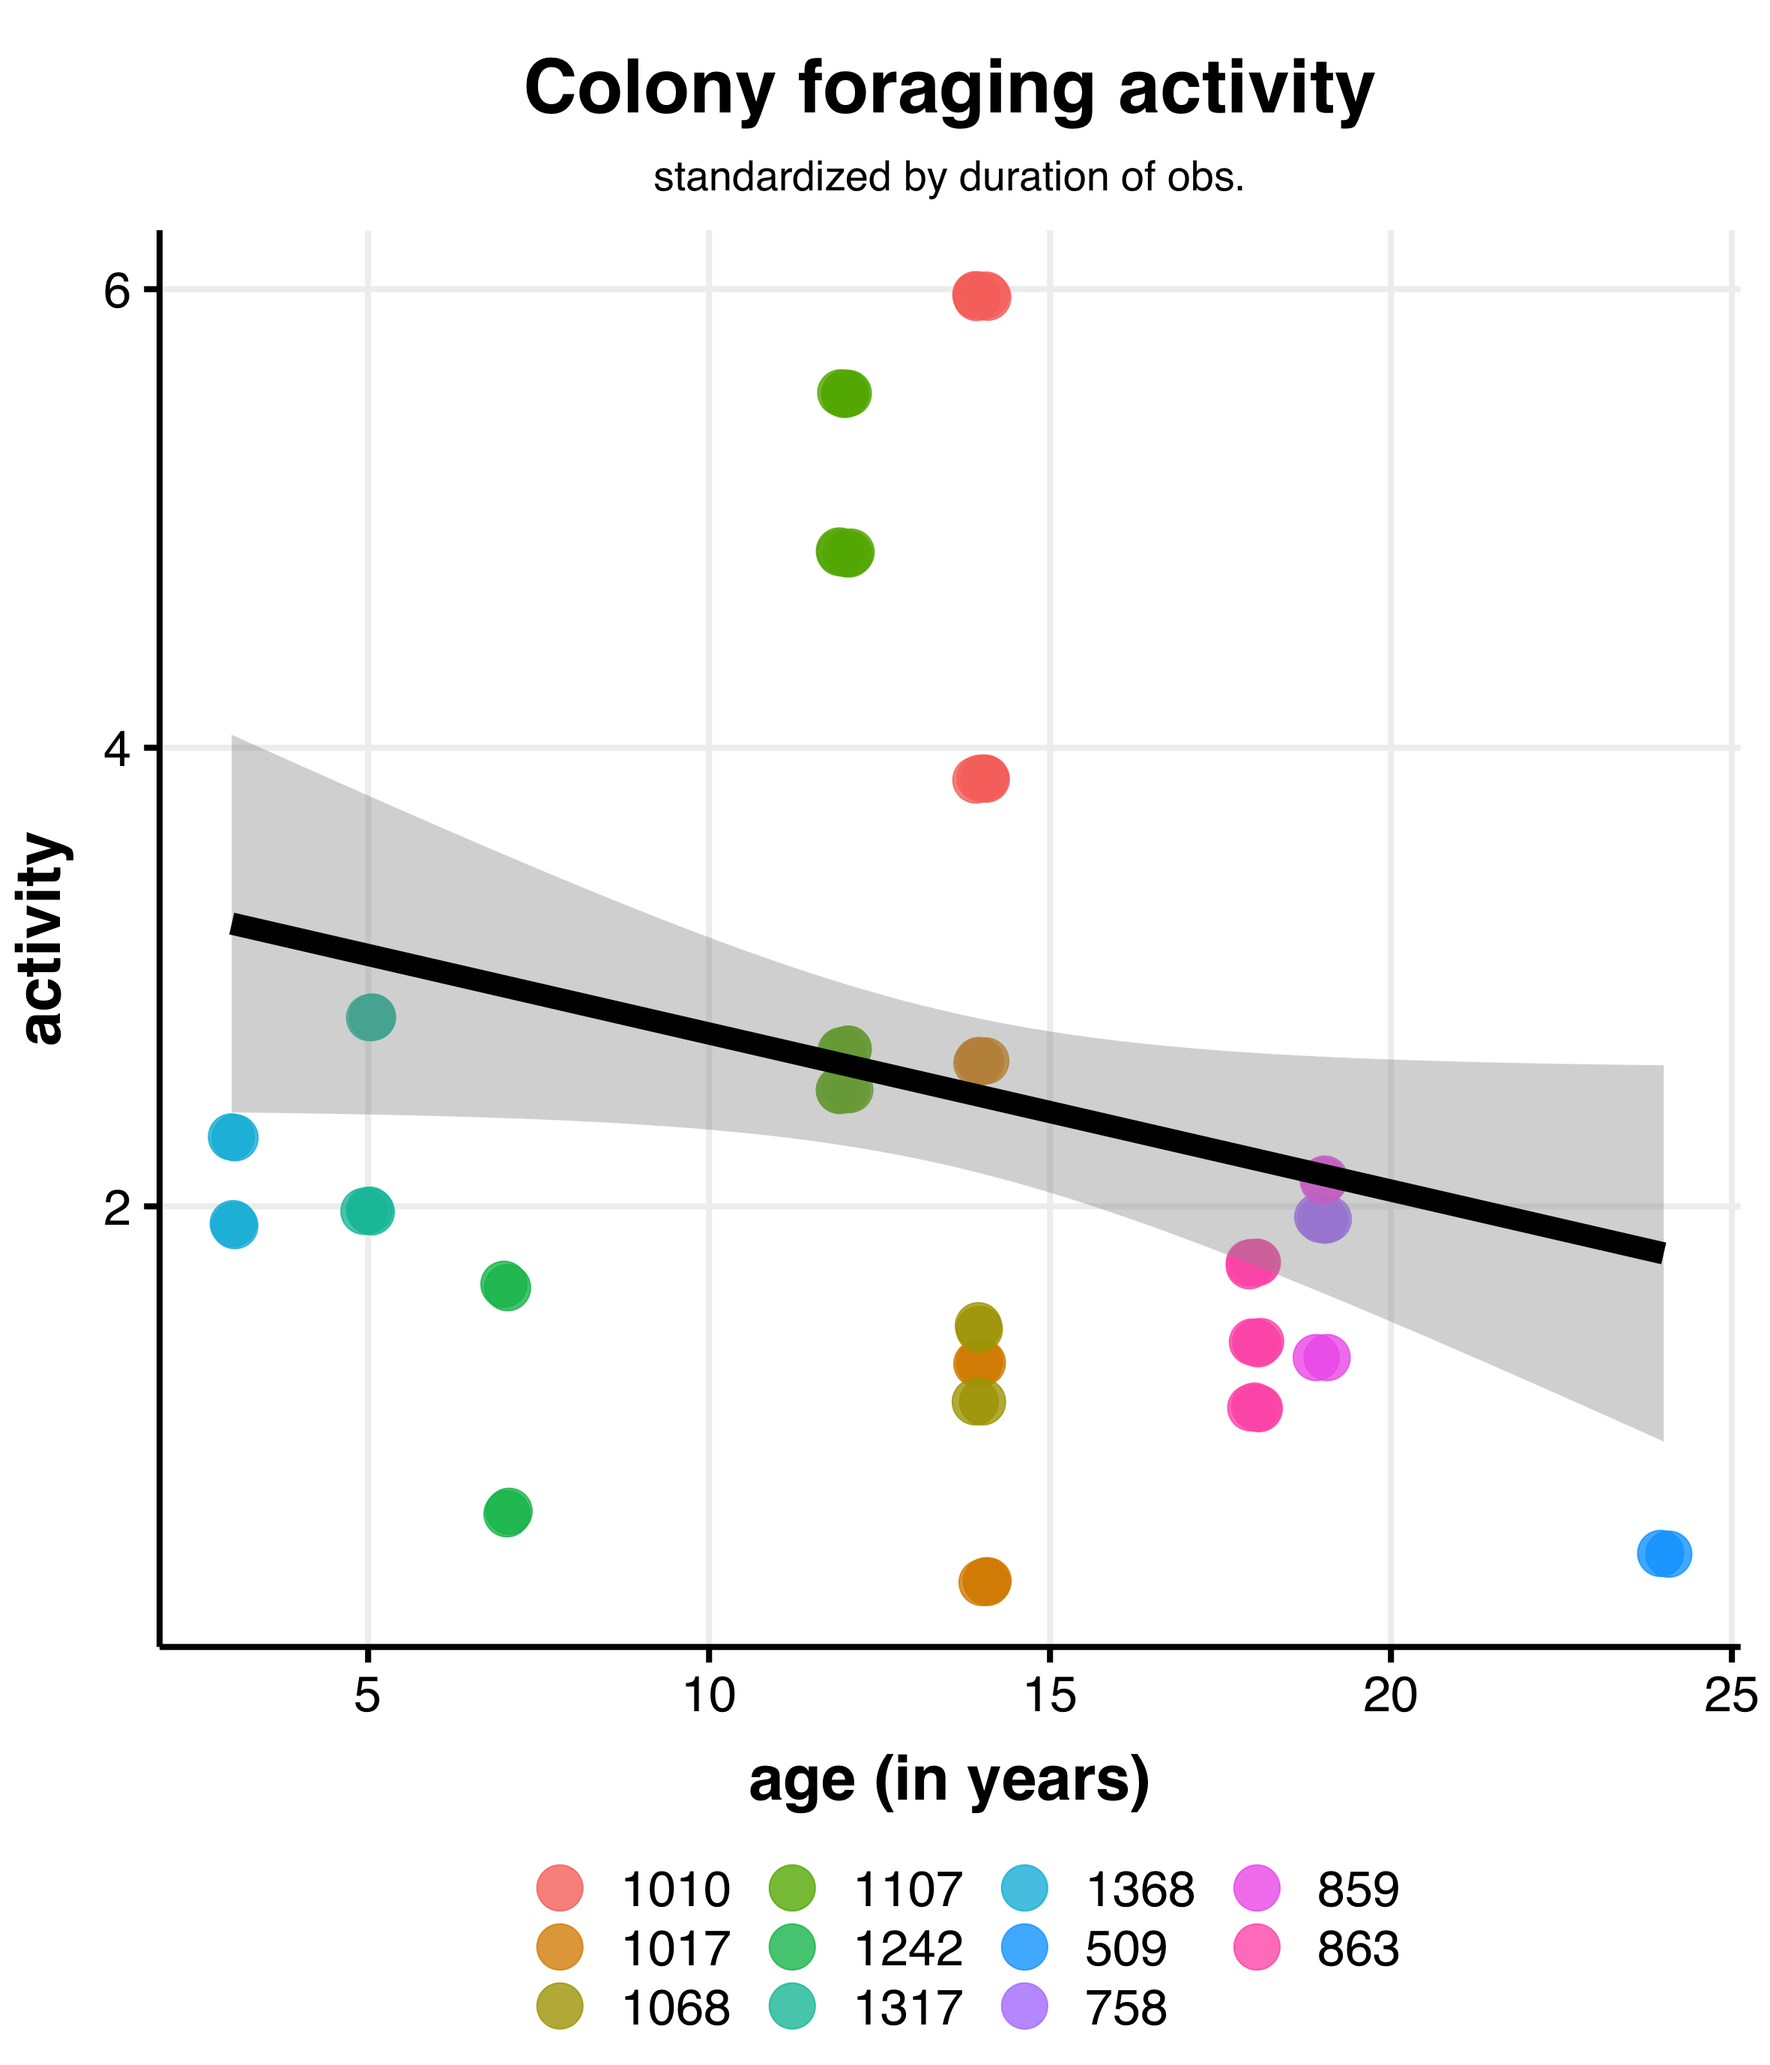
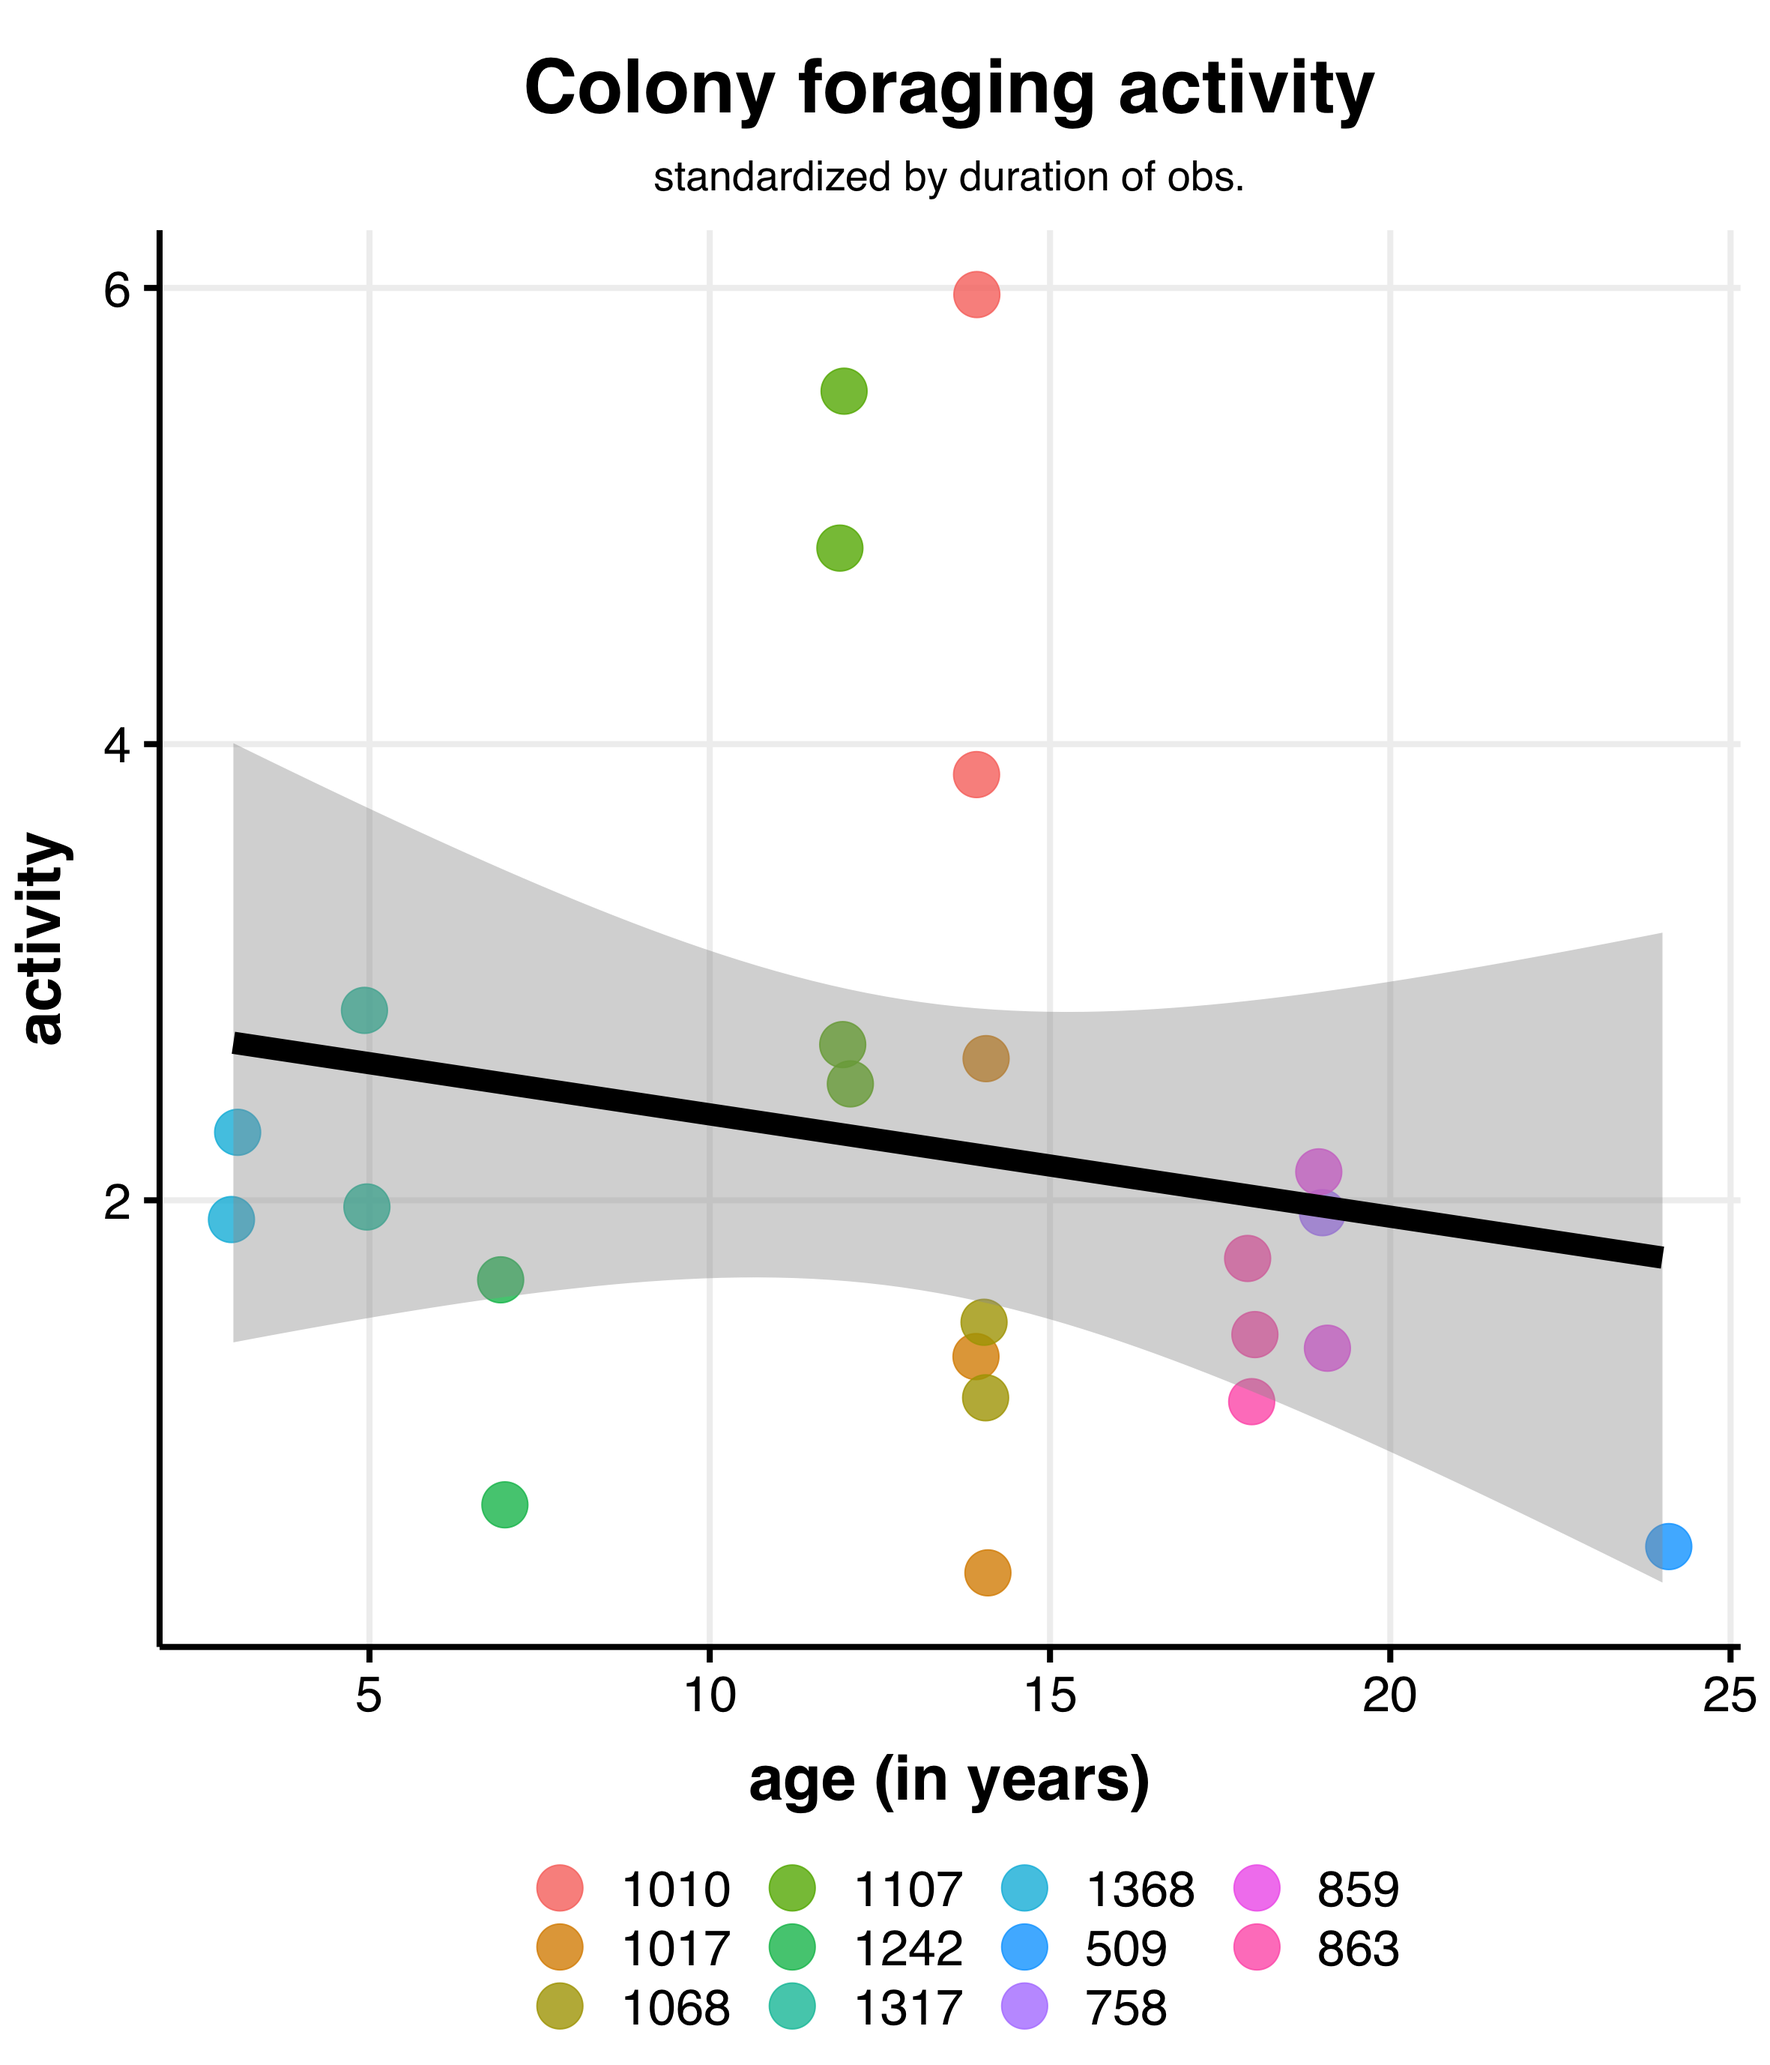
updating plot for timecourse foraging

diff --git a/docs/timecourse_foraging_Gordon.html b/docs/timecourse_foraging_Gordon.html
@@ -1154,6 +1154,7 @@ auc.dat %&gt;%
   
   left_join(summ.dat %&gt;% ungroup() %&gt;% 
               select(colony_ID, age_when_obs), by=&quot;colony_ID&quot;) %&gt;% 
+  distinct() %&gt;% 
 
   ggplot(aes(x=age_when_obs, y=auc/dur_mins)) +
     # geom_boxplot(alpha=0.5) +
@@ -1184,6 +1185,57 @@ auc.dat %&gt;%
           legend.title = element_blank()) +
     theme(legend.position=&quot;bottom&quot;, legend.box=&quot;vertical&quot;, legend.margin=margin()) 
 
+trash &lt;- dev.off()
+
+
+## Plot by day
+
+png(paste0(path_to_repo2,
+           &quot;total_foraging_v3.png&quot;),
+    width = 30, height = 40, units = &quot;cm&quot;, res = 200)
+
+auc.dat %&gt;% 
+  select(colony_ID:age_class, auc, dur_mins) %&gt;% 
+  select(-t.bin) %&gt;% 
+  distinct() %&gt;% 
+  
+  left_join(summ.dat %&gt;% ungroup() %&gt;% 
+              select(colony_ID, age_when_obs), by=&quot;colony_ID&quot;) %&gt;% 
+  distinct() %&gt;% 
+
+  ggplot(aes(x=as.factor(day), y=auc/dur_mins)) +
+    # geom_boxplot(alpha=0.5) +
+    # geom_violin(alpha = 0.4) +
+    # geom_point(size=2, alpha=0.7, aes(col=colony_ID)) +  
+  
+    geom_jitter(width = 0.1, size=10, alpha=0.8, 
+                aes(col=as.factor(colony_ID), shape=as.factor(age_class))) +
+  
+    # stat_summary(fun.data=mean_cl_normal) + 
+    geom_smooth(method=&#39;lm&#39;, col=&quot;black&quot;, alpha=0.4, size=5) +
+  
+
+    theme_Publication(base_size = 30) +
+    # theme_classic() +
+    # scale_x_continuous(n.breaks = 3, limits = c(0,max(x.max,y.max))) +
+    # scale_y_continuous(n.breaks = 3, limits = c(0,max(.$auc/.$dur_mins))) +
+
+    labs(title = &quot;Colony foraging activity&quot;,
+       subtitle = &quot;standardized by duration of obs.&quot;,
+       y = &quot;activity&quot;,
+       x = &quot;day of observation&quot;) +
+  
+    scale_color_discrete() +
+    scale_fill_discrete() +
+    
+    coord_flip() +
+
+    # theme(legend.position=&quot;none&quot;) +
+
+    theme(plot.subtitle=element_text(hjust=0.5, size=20),
+          legend.title = element_blank()) +
+    theme(legend.position=&quot;bottom&quot;, legend.box=&quot;vertical&quot;, legend.margin=margin()) 
+
 trash &lt;- dev.off()</code></pre>
 <div class="figure" style="text-align: center">
 <img src="images/2022_deborah/01_timecourse_foraging/total_foraging_v1.png" alt="Total foraging activity by age-groups" width="65%" />
@@ -1195,6 +1247,12 @@ Total foraging activity by age-groups
 <img src="images/2022_deborah/01_timecourse_foraging/total_foraging_v2.png" alt="Total foraging activity by age" width="65%" />
 <p class="caption">
 Total foraging activity by age
+</p>
+</div>
+<div class="figure" style="text-align: center">
+<img src="images/2022_deborah/01_timecourse_foraging/total_foraging_v3.png" alt="Total foraging activity by day of observation" width="65%" />
+<p class="caption">
+Total foraging activity by day of observation
 </p>
 </div>
 </div>
